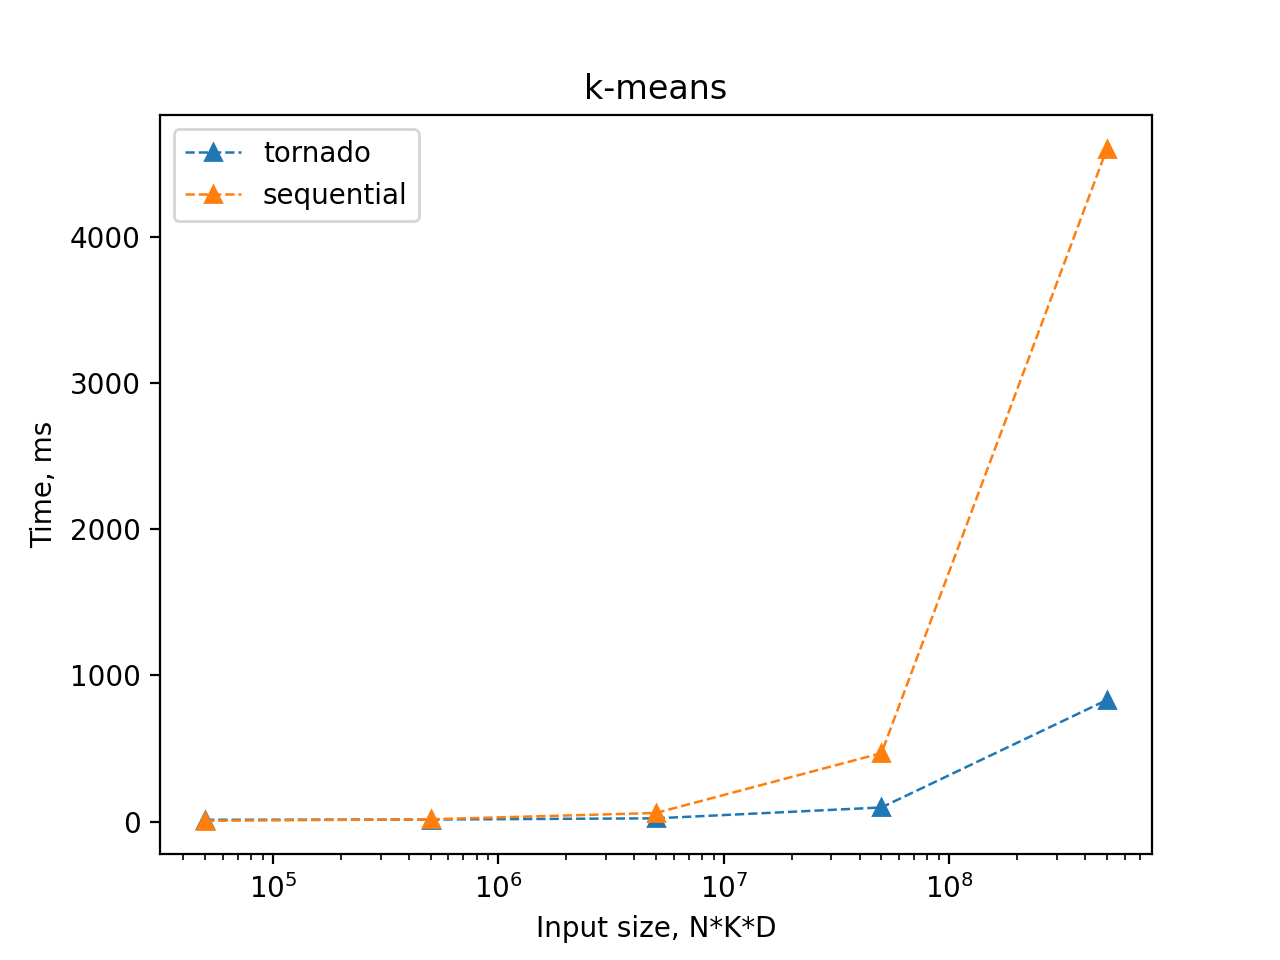
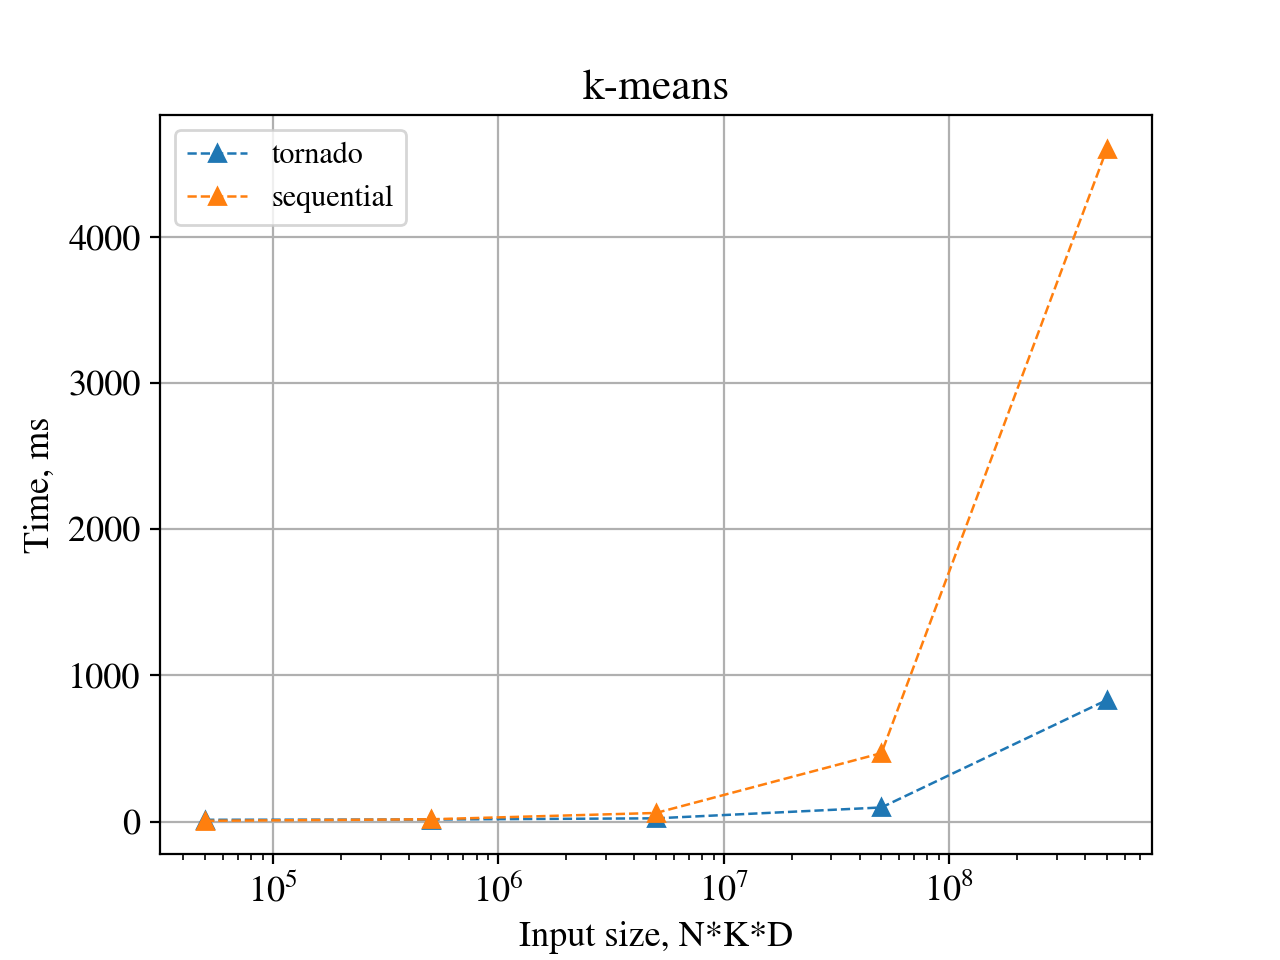
update plots

diff --git a/perf_plot.py b/perf_plot.py
@@ -3,6 +3,13 @@ import numpy as np
 import time
 import sys
 
+from matplotlib import rcParams
+
+rcParams['mathtext.fontset'] = 'stix'
+rcParams['font.family'] = 'STIXGeneral'
+rcParams['font.size'] = 13
+rcParams['legend.fontsize'] = "small"
+
 
 def plot_sum():
 	#
@@ -54,9 +61,11 @@ def plot_sum():
 	plt.plot(N, without_gpu, label="sequential", linestyle="--", marker="^", linewidth=0.9)
 	plt.plot(N, with_numpy, label="numpy", linestyle="--", marker="^", linewidth=0.9)
 	plt.legend()
+	plt.grid(True)
 	plt.ylabel("Time, ms")
 	plt.xlabel("Input array size")
 	plt.gca().set_xscale('log')
+	plt.savefig("sum_linear.png", dpi=200)
 	plt.gca().set_yscale('log')
 	plt.savefig("sum_log.png", dpi=200)
 	plt.show()
@@ -96,9 +105,11 @@ def plot_hampel():
 	plt.plot(N, with_gpu, label="tornado", linestyle="--", marker="^", linewidth=0.9)
 	plt.plot(N, without_gpu, label="sequential", linestyle="--", marker="^", linewidth=0.9)
 	plt.legend()
+	plt.grid(True)
 	plt.ylabel("Time, ms")
 	plt.xlabel("Input array size")
 	plt.gca().set_xscale('log')
+	plt.savefig("hampel_linear.png", dpi=200)
 	plt.gca().set_yscale('log')
 	plt.savefig("hampel_log.png", dpi=200)
 	plt.show()
@@ -136,11 +147,13 @@ def plot_kmeans():
 	plt.plot(N, with_gpu, label="tornado", linestyle="--", marker="^", linewidth=0.9)
 	plt.plot(N, without_gpu, label="sequential", linestyle="--", marker="^", linewidth=0.9)
 	plt.legend()
+	plt.grid(True)
 	plt.ylabel("Time, ms")
 	plt.xlabel("Input size, N*K*D")
 	plt.gca().set_xscale('log')
-	#plt.gca().set_yscale('log')
 	plt.savefig("kmeans_linear.png", dpi=200)
+	plt.gca().set_yscale('log')
+	plt.savefig("kmeans_log.png", dpi=200)
 	plt.show()
 
 
